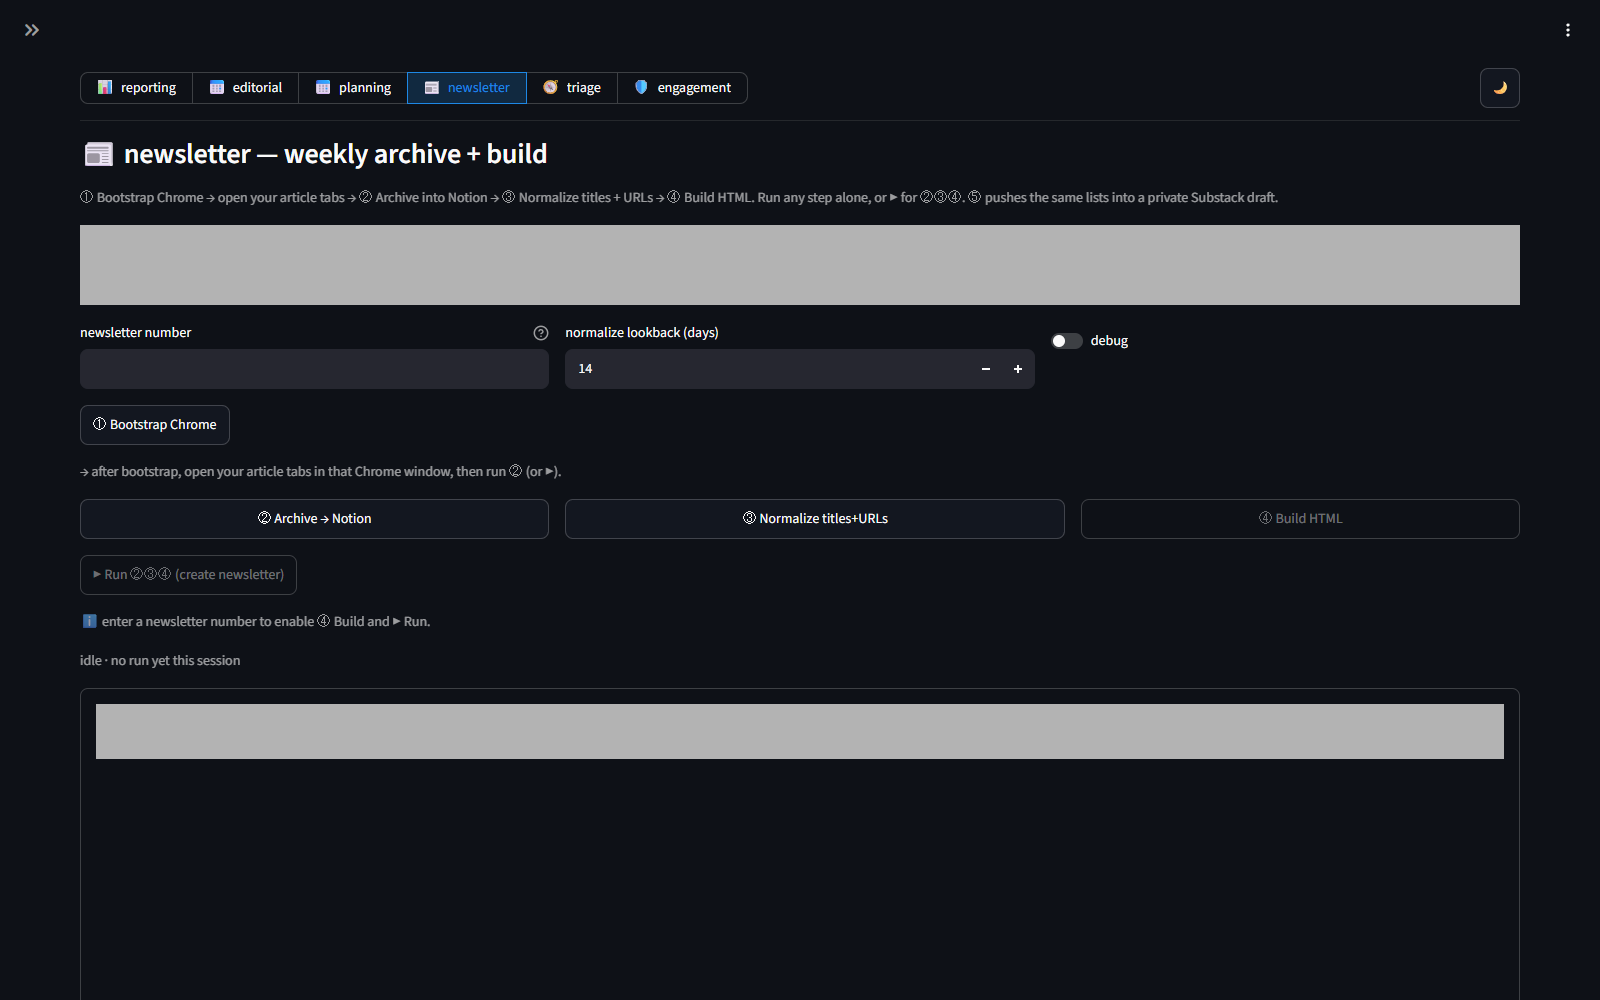
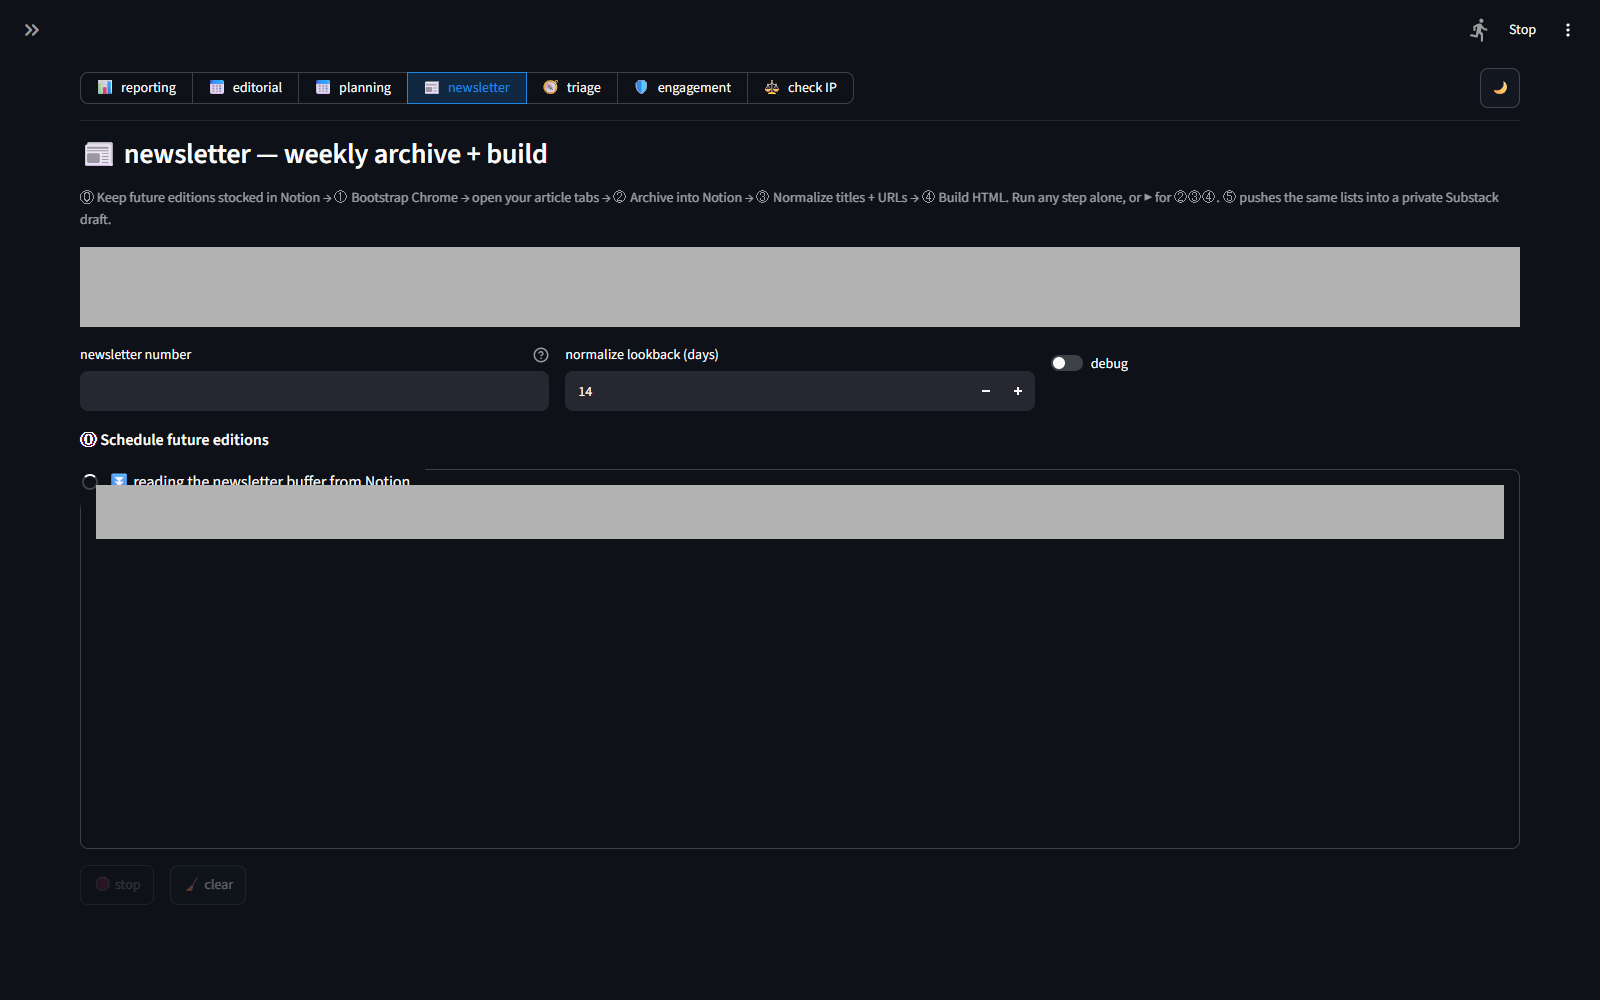
docs: visual docs for check IP + gitignore every .env
- register check_ip in the screenshot manifest and capture it; recapture the
  other six, which all showed a six-chip nav bar that now has seven
- mask the triage grid only (it renders third-party post URLs, page titles
  and names into an image committed to a public repo). The metrics and the
  by-platform breakdown are the owner's own aggregate counts and stay visible
- wrap that grid in a keyed container so the mask can target it alone;
  masking every stDataFrame also hit the collapsed by-platform expander and
  painted a phantom box across the page
- gitignore `.env` and `**/.env`. Only `reporting/process/.env` was covered,
  so the root .env holding the SerpAPI and Imgur keys would have been
  committable — in a public repo
- read that .env in check_ip.db.credentials(); nothing was loading one

Claude-Session: https://claude.ai/code/session_01VA5UfyWQLjHjcsz7A47vBh

diff --git a/app/tab_check_ip.py b/app/tab_check_ip.py
@@ -200,42 +200,47 @@ def _render_table() -> None:
         "Showing the most-reused illustrations first. Nothing saves until you click Apply."
     )
 
-    st.data_editor(
-        frame,
-        key=editor_key,
-        hide_index=True,
-        num_rows="fixed",
-        width="stretch",
-        height=min(900, 80 + 36 * len(frame)),
-        column_order=["ok", "found_link", "local_image", "screen_verdict", "screen_reason",
-                      "poster_url", "person", "chat", "report", "fixed", "title",
-                      "post_date", "match_type", "source", "search_date"],
-        disabled=["id", "local_image", "found_link", "title", "source", "match_type",
-                  "post_date", "search_date", "duplicate", "screen_verdict",
-                  "screen_reason", "poster_url", "screened_at"],
-        column_config={
-            "ok": st.column_config.SelectboxColumn(
-                "verdict", options=[0, 1], width="small",
-                help="0 = infringement, act on it · 1 = reviewed, acceptable use"),
-            "found_link": st.column_config.LinkColumn("where it appears", display_text="open ↗",
-                                                      width="small"),
-            "local_image": st.column_config.TextColumn("illustration", width="medium"),
-            "screen_verdict": st.column_config.TextColumn("skill says", width="small",
-                                                          help="Proposed by the check-ip skill — never a decision."),
-            "screen_reason": st.column_config.TextColumn("why", width="large"),
-            "poster_url": st.column_config.LinkColumn("who posted", display_text="profile ↗",
-                                                      width="small"),
-            "person": st.column_config.TextColumn("contact", width="medium"),
-            "chat": st.column_config.TextColumn("outreach", width="medium"),
-            "report": st.column_config.TextColumn("report", width="small"),
-            "fixed": st.column_config.CheckboxColumn("fixed", width="small"),
-            "title": st.column_config.TextColumn("page title", width="large"),
-            "post_date": st.column_config.TextColumn("posted", width="small"),
-            "match_type": st.column_config.TextColumn("match", width="small"),
-            "source": st.column_config.TextColumn("platform", width="small"),
-            "search_date": st.column_config.TextColumn("found", width="small"),
-        },
-    )
+    # Wrapped in a keyed container so the docs-capture mask can target this
+    # grid alone (`.st-key-check-ip-grid`). Masking every [data-testid="stDataFrame"]
+    # also hits the collapsed by-platform expander, which paints a phantom box
+    # over the page — and that table is aggregate counts needing no mask.
+    with st.container(key="check-ip-grid"):
+        st.data_editor(
+            frame,
+            key=editor_key,
+            hide_index=True,
+            num_rows="fixed",
+            width="stretch",
+            height=min(900, 80 + 36 * len(frame)),
+            column_order=["ok", "found_link", "local_image", "screen_verdict", "screen_reason",
+                          "poster_url", "person", "chat", "report", "fixed", "title",
+                          "post_date", "match_type", "source", "search_date"],
+            disabled=["id", "local_image", "found_link", "title", "source", "match_type",
+                      "post_date", "search_date", "duplicate", "screen_verdict",
+                      "screen_reason", "poster_url", "screened_at"],
+            column_config={
+                "ok": st.column_config.SelectboxColumn(
+                    "verdict", options=[0, 1], width="small",
+                    help="0 = infringement, act on it · 1 = reviewed, acceptable use"),
+                "found_link": st.column_config.LinkColumn("where it appears", display_text="open ↗",
+                                                          width="small"),
+                "local_image": st.column_config.TextColumn("illustration", width="medium"),
+                "screen_verdict": st.column_config.TextColumn("skill says", width="small",
+                                                              help="Proposed by the check-ip skill — never a decision."),
+                "screen_reason": st.column_config.TextColumn("why", width="large"),
+                "poster_url": st.column_config.LinkColumn("who posted", display_text="profile ↗",
+                                                          width="small"),
+                "person": st.column_config.TextColumn("contact", width="medium"),
+                "chat": st.column_config.TextColumn("outreach", width="medium"),
+                "report": st.column_config.TextColumn("report", width="small"),
+                "fixed": st.column_config.CheckboxColumn("fixed", width="small"),
+                "title": st.column_config.TextColumn("page title", width="large"),
+                "post_date": st.column_config.TextColumn("posted", width="small"),
+                "match_type": st.column_config.TextColumn("match", width="small"),
+                "source": st.column_config.TextColumn("platform", width="small"),
+                "search_date": st.column_config.TextColumn("found", width="small"),
+            },
+        )
 
     st.button("✅ Apply decisions", key=f"check-ip-apply-{editor_key}", type="primary",
               on_click=_apply, args=(editor_key,),

diff --git a/check_ip/db.py b/check_ip/db.py
@@ -90,7 +90,20 @@ def _secret(cfg: dict, name: str, env: str) -> str:
 
 
 def credentials() -> dict:
-    """The three API credentials, from config.json's api_keys or the environment."""
+    """The three API credentials, from config.json's api_keys or the environment.
+
+    Loads the repo-root ``.env`` first so the keys can live there rather than
+    in ``config.json`` — both are gitignored, but a ``.env`` keeps secrets out
+    of the file that also carries ordinary settings. Never logged, never
+    returned anywhere that renders.
+    """
+    try:
+        from dotenv import load_dotenv  # noqa: PLC0415 — optional at import time
+
+        load_dotenv(REPO_ROOT / ".env")
+    except ImportError:  # pragma: no cover — python-dotenv is in requirements
+        logger.debug("python-dotenv unavailable; reading credentials from the environment only")
+
     cfg = config()
     return {
         "serpapi_key": _secret(cfg, "serpapi_key", "SERPAPI_KEY"),

diff --git a/README.md b/README.md
@@ -246,9 +246,15 @@ LinkedIn comment triage: scrape the comments on your recent posts, classify each
 
 ### 🧭 Triage
 
-Weekly newsletter inbox → edition shortlist: pick a closed Saturday→Saturday week, run the triage engine (Gmail → links → two-stage scoring → 8+8+8 suggestions stored in Supabase) with the live log, then review the editable table — tick / untick / promote, reclassify the topic, ⭐ / 🏆, notes — and Apply to persist decisions, learn sender tiers and advance the watermark. A review comment can be distilled into criteria notes you accept one by one.
+Weekly newsletter inbox → edition shortlist: pick a closed Saturday→Saturday week, run the triage engine (Gmail → links → two-stage scoring → 8+8+8 suggestions stored in Supabase) with the live log, then review the editable table — tick / untick / promote, ⭐ / 🏆, notes — and Apply to persist decisions, learn sender tiers and advance the watermark. A review comment can be distilled into criteria notes you accept one by one.
 
 ![🧭 Triage screenshot](docs/screenshots/triage-desktop.png)
+
+### ⚖ Check IP
+
+Illustration copyright check: reverse-image-search results for every published illustration, ranked most-reused first. Shows what the /check-ip skill proposed for each link, and the verdict plus follow-up trail the owner sets and saves with Apply. Platform, status and illustration filters; the cost-gated search run sits behind its own expander.
+
+![⚖ Check IP screenshot](docs/screenshots/check_ip-desktop.png)
 
 <!-- docs-shots:end -->
 

diff --git a/check_ip/README.md b/check_ip/README.md
@@ -91,9 +91,19 @@ A `check_ip` block in `config/config.json` (gitignored — see
 | `search_settings` | `do_exact_search` / `do_similar_search` |
 | `screen_queue` | default platform and batch size for the skill |
 
-**Credentials never go in the repo.** Either paste them into
-`config/config.json` (gitignored) or leave the `${…}` placeholders and export
-`SERPAPI_KEY` / `IMGUR_CLIENT_ID` / `IMGUR_ACCESS_TOKEN`.
+**Credentials live in the repo-root `.env`**, which is gitignored (as is any
+`.env` anywhere in the tree):
+
+```
+SERPAPI_KEY=…
+IMGUR_CLIENT_ID=…
+IMGUR_ACCESS_TOKEN=…
+```
+
+`config.json` keeps `${SERPAPI_KEY}`-style placeholders, which mean "read this
+from the environment". Pasting a real value into `config.json` also works — it
+is gitignored too — but `.env` keeps secrets out of the file that carries
+ordinary settings.
 
 ## Re-search windows
 
